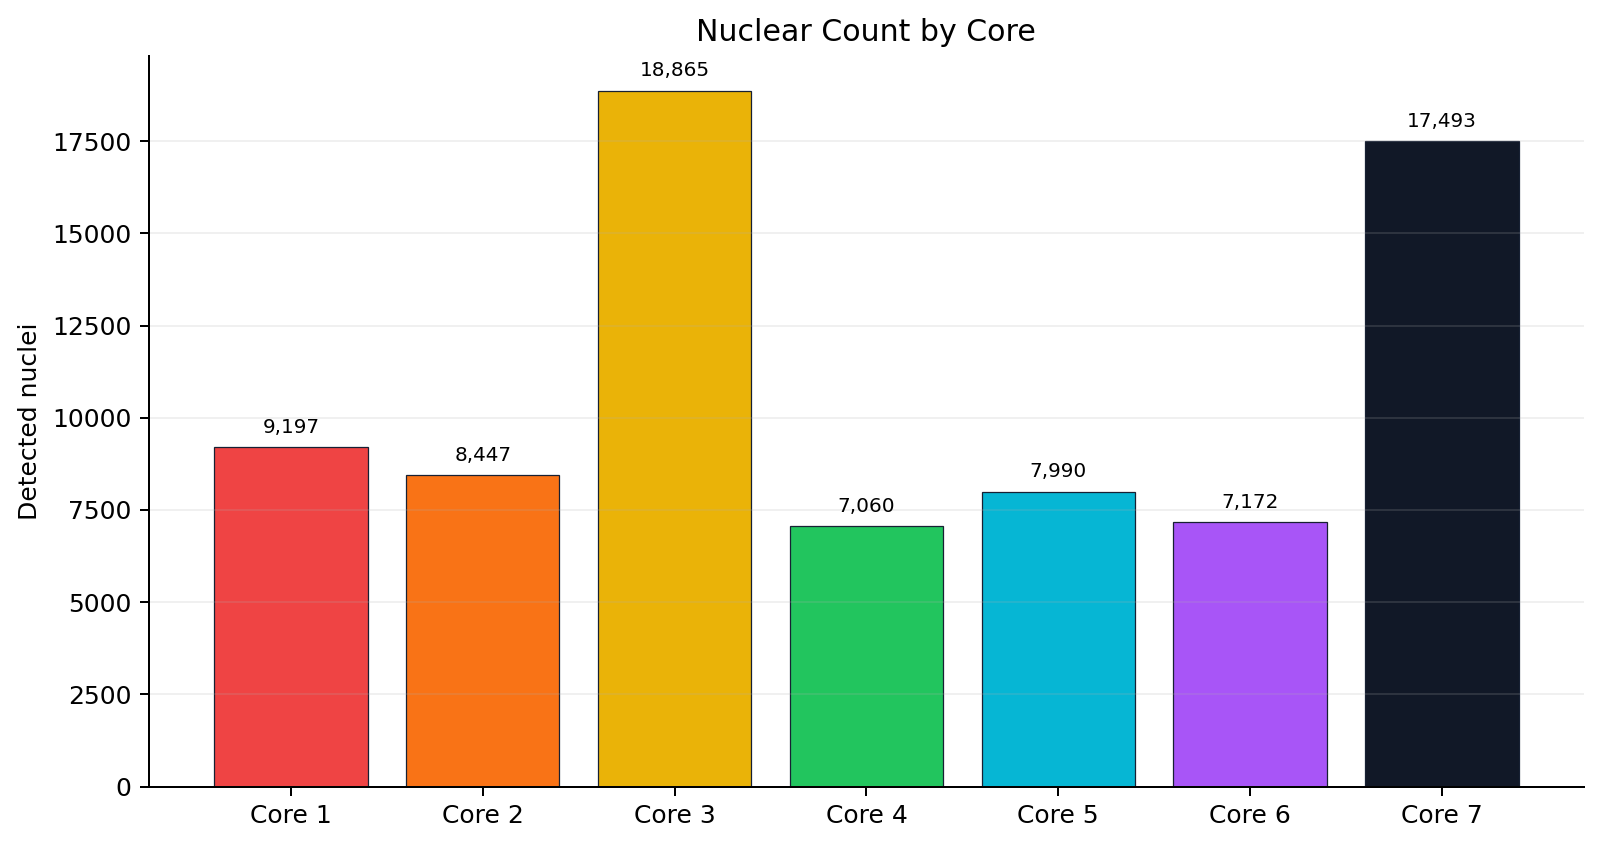
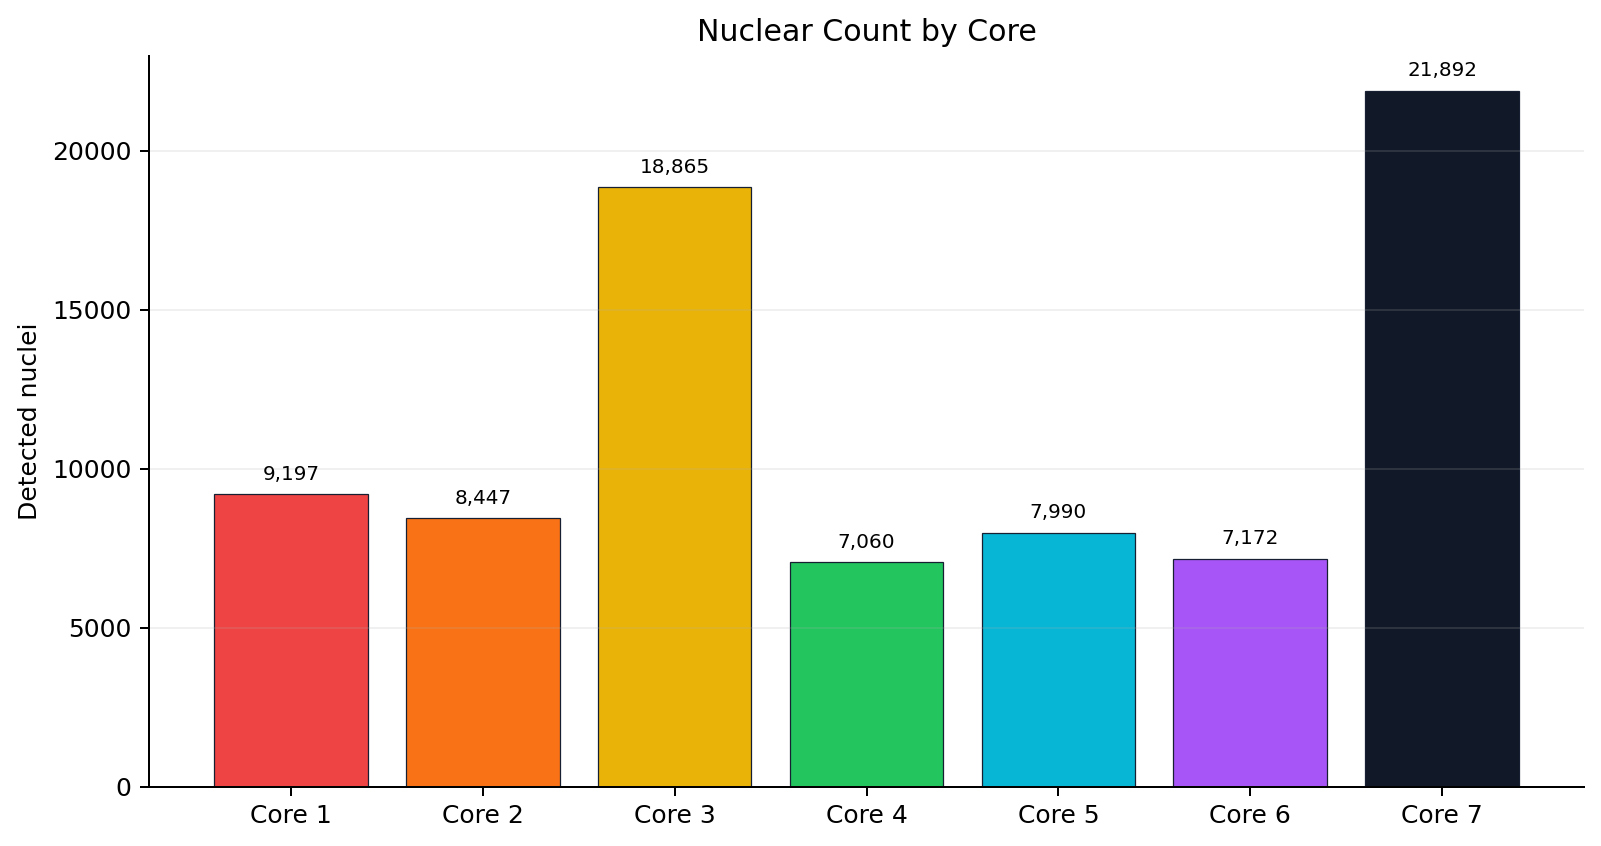
Tune Core 7 marginal segmentation

diff --git a/scripts/run_1path_analysis_pipeline.py b/scripts/run_1path_analysis_pipeline.py
@@ -38,14 +38,14 @@ PROB_THRESH = {
     4: 0.15,
     5: 0.15,
     6: 0.15,
-    7: 0.10,
+    7: 0.02,
 }
 CORE_COLORS = ["#ef4444", "#f97316", "#eab308", "#22c55e", "#06b6d4", "#a855f7", "#111827"]
 INCLUSION_RADIUS_MULT = {
     # Core 7 has a small marginal tissue/cell area just outside the visually
     # best-fit core circle. Keep the displayed circle tight, but use this
     # slightly wider invisible boundary for assigning nuclei and patches.
-    7: 1.12,
+    7: 1.30,
 }
 
 

diff --git a/README.md b/README.md
@@ -40,7 +40,7 @@ Processing steps:
 
 ## Results
 
-Final segmentation detected **76,224 nuclei** across seven cores.
+Final segmentation detected **80,623 nuclei** across seven cores.
 
 ![Core counts](docs/figures/core_counts_1path.png)
 
